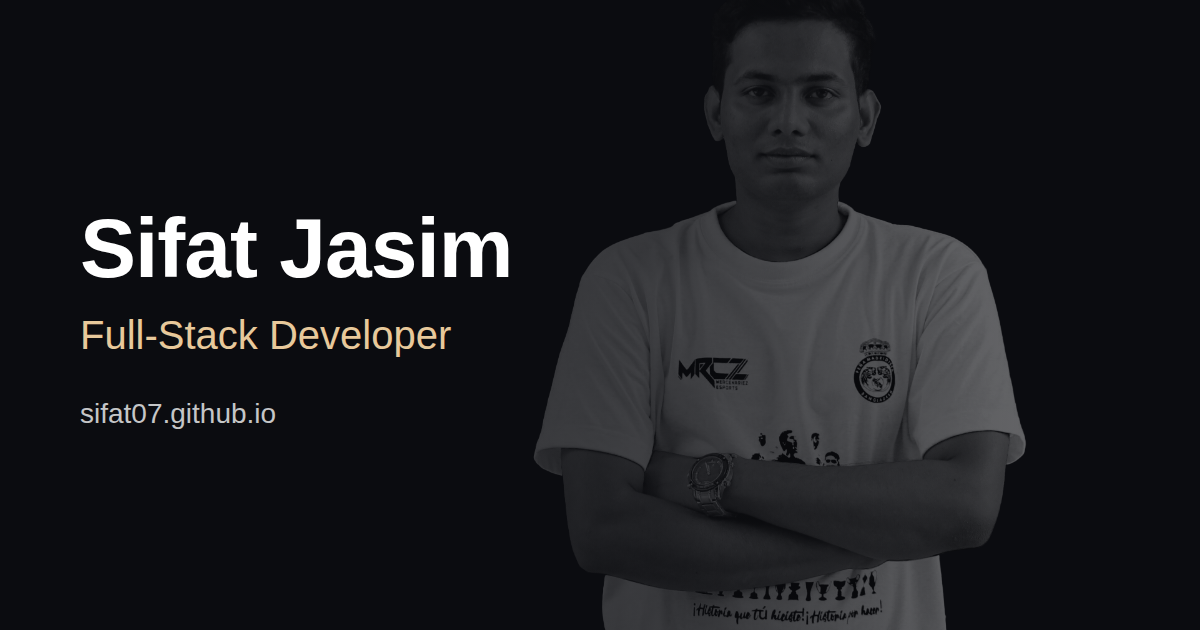
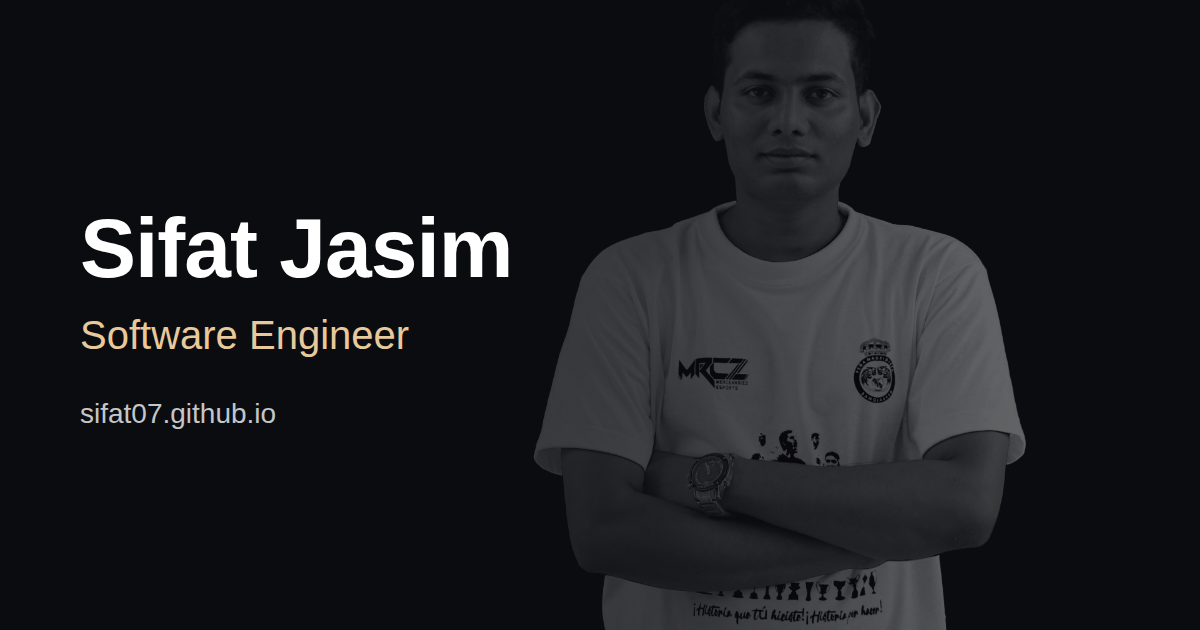
Use "Software Engineer" as the role in titles and link preview
Claude-Session: https://claude.ai/code/session_01F3zEmrKQPUkegNcuQEbW6Q

Changed region(s): [[0.0617, 0.5127, 0.37, 0.573]]

diff --git a/components/SEO.tsx b/components/SEO.tsx
@@ -10,9 +10,9 @@ interface SEOProps {
 }
 
 const SEO: React.FC<SEOProps> = ({
-  title = "Sifat Jasim | Full-Stack Developer",
-  description = "Full-Stack Developer specializing in React, Next.js, and modern web architectures. Portfolio of Sifat Jasim.",
-  keywords = "Sifat Jasim, Portfolio, Full-Stack Developer, React, Next.js, TypeScript, Node.js",
+  title = "Sifat Jasim | Software Engineer",
+  description = "Software Engineer specializing in React, Next.js, and modern web architectures. Portfolio of Sifat Jasim.",
+  keywords = "Sifat Jasim, Portfolio, Software Engineer, React, Next.js, TypeScript, Node.js",
   ogImage = "/og-image.png",
   url = "https://sifat07.github.io",
 }) => {
